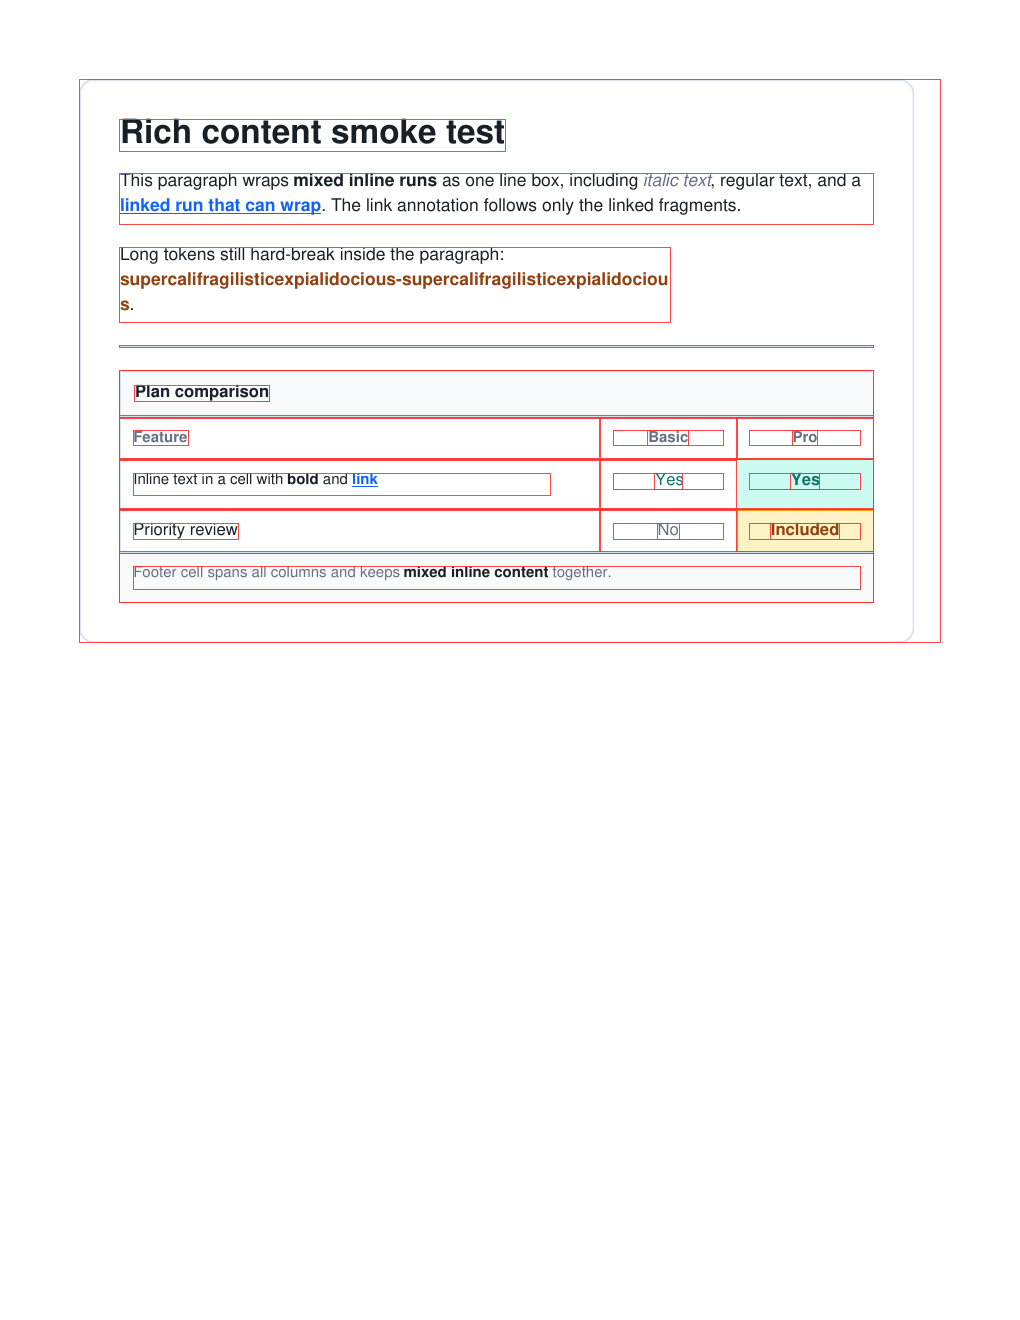
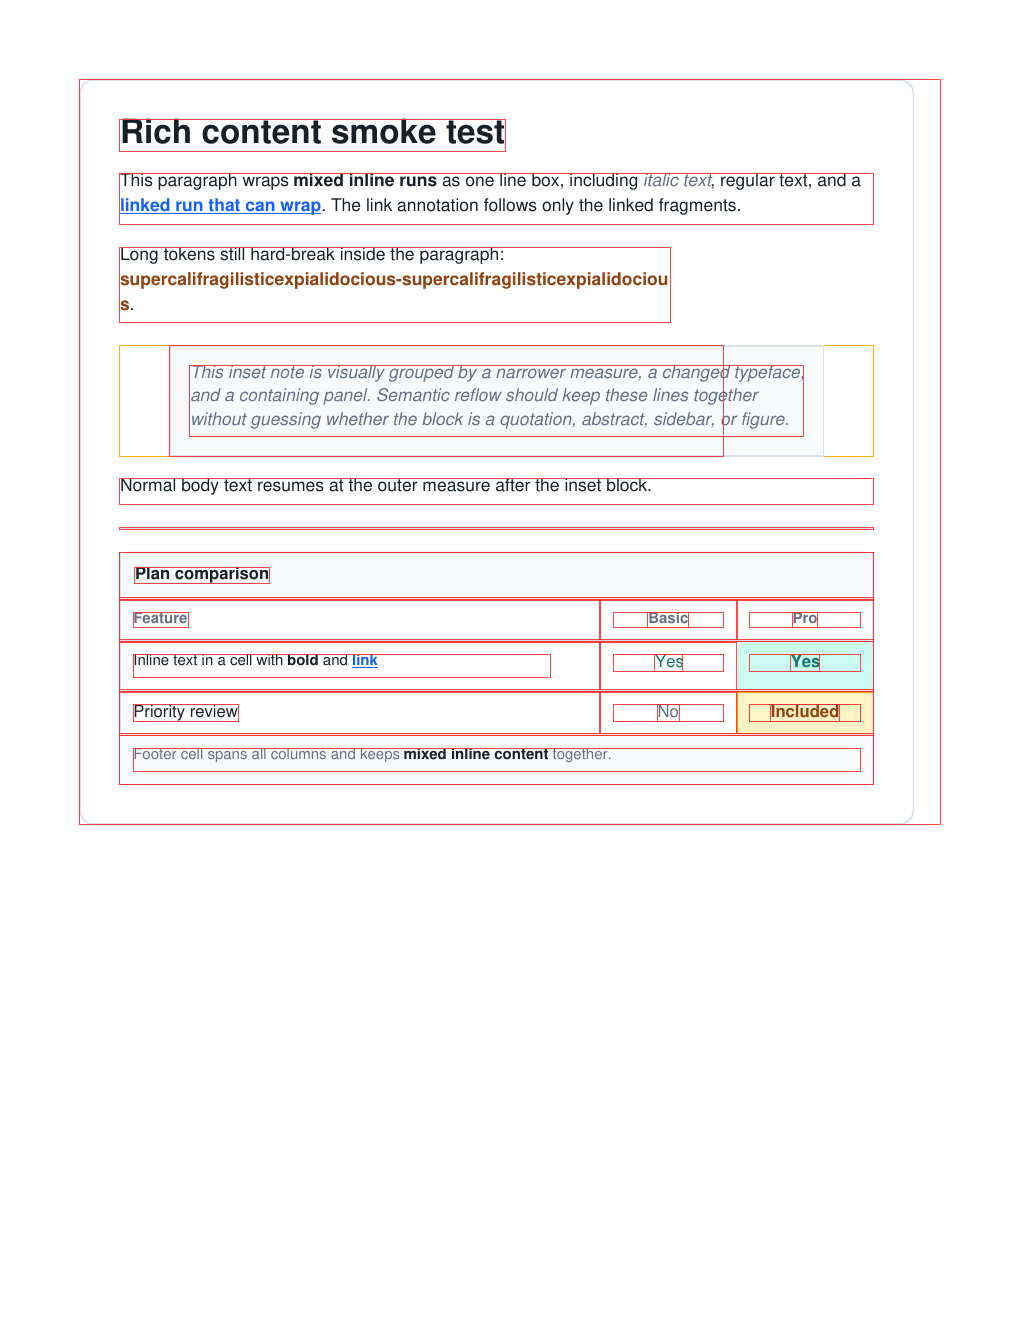
Add a statistically clear inset content fixture

Changed region(s): [[0.0912, 0.2795, 0.8814, 0.5902]]

diff --git a/examples/rich-content.ts b/examples/rich-content.ts
@@ -62,6 +62,31 @@ const doc = vstack(
     }),
     run(".", body)
   ),
+  vstack(
+    {
+      width: 392,
+      margin: { left: 30, right: 30 },
+      padding: 12,
+      background: panel,
+      border: { color: line, width: 1 },
+      gap: 6
+    },
+    paragraph(
+      { width: 368, lineHeight: 14 },
+      run(
+        "This inset note is visually grouped by a narrower measure, a changed typeface, and a containing panel. ",
+        bodyItalic
+      ),
+      run(
+        "Semantic reflow should keep these lines together without guessing whether the block is a quotation, abstract, sidebar, or figure.",
+        bodyItalic
+      )
+    )
+  ),
+  paragraph(
+    { width: 452, lineHeight: 15 },
+    run("Normal body text resumes at the outer measure after the inset block.", body)
+  ),
   hline({ color: line }),
   table({
     width: 452,
